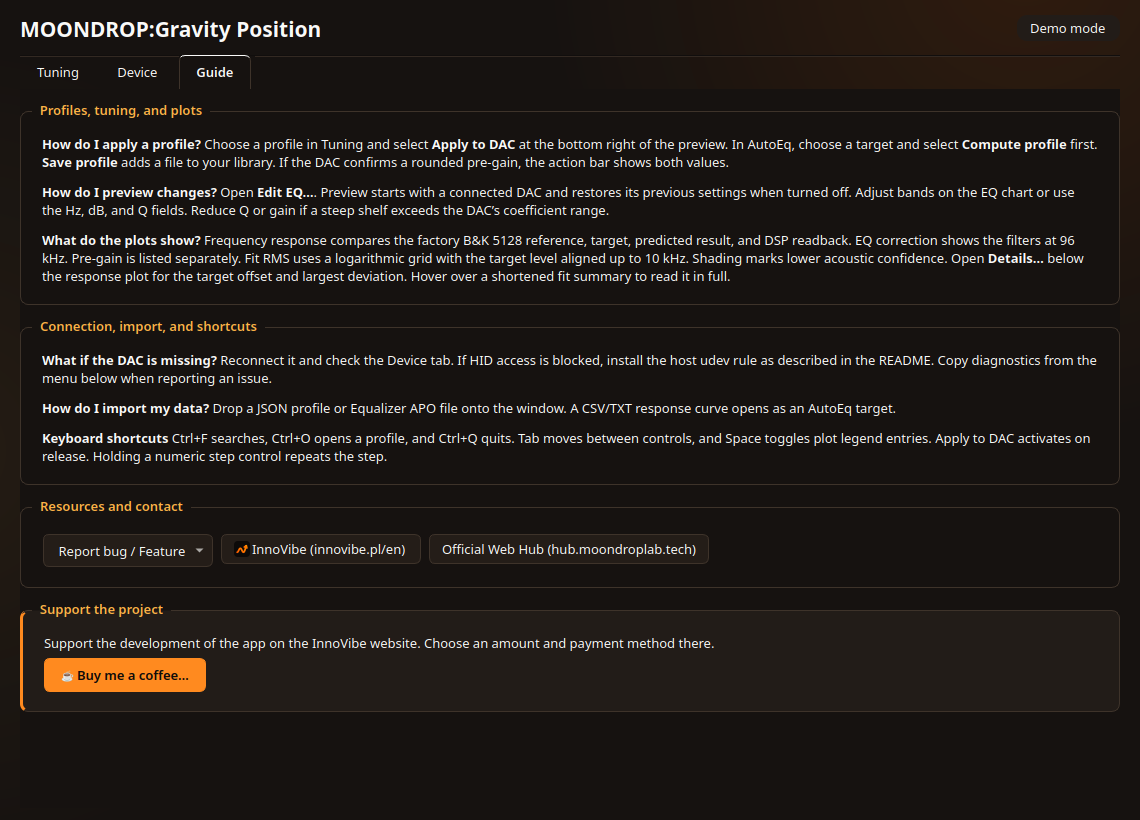
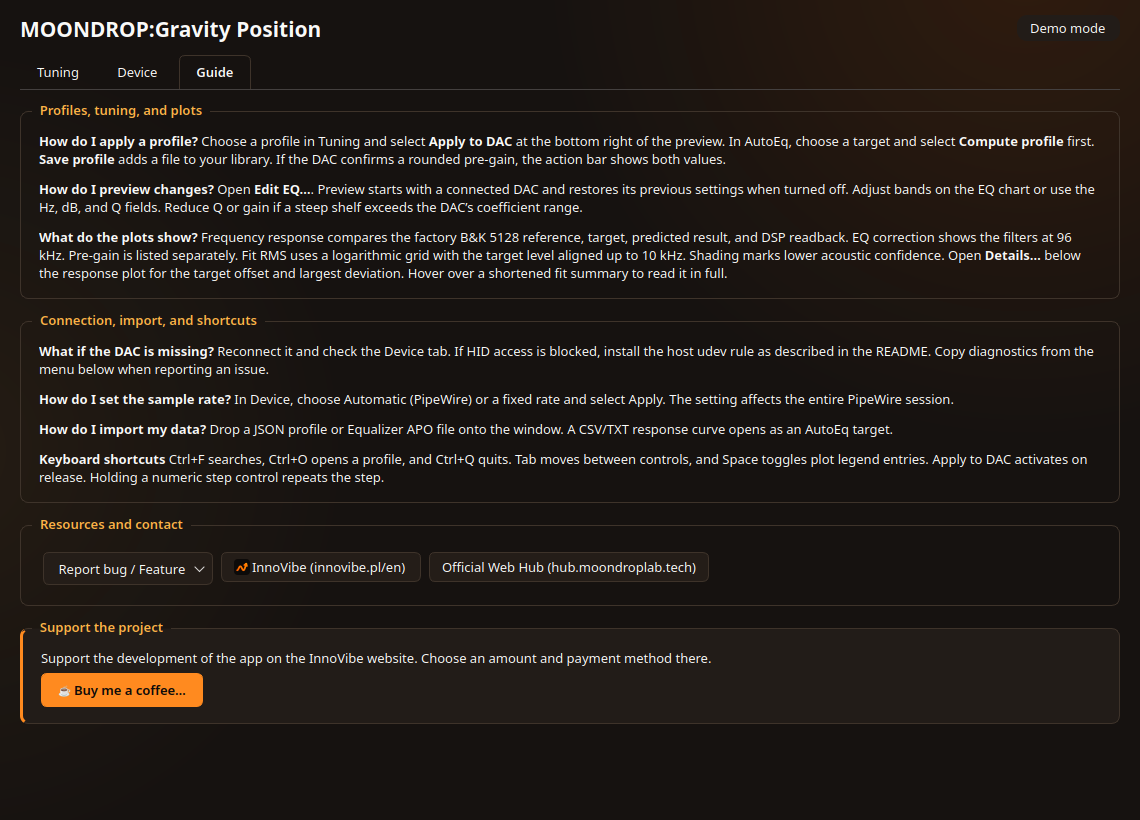
Fit translated PipeWire sample rate labels

Changed region(s): [[0.0307, 0.1524, 0.9825, 0.7012], [0.0307, 0.7317, 0.6447, 0.8841]]

diff --git a/tests/test_gui_smoke.py b/tests/test_gui_smoke.py
@@ -13,7 +13,7 @@ import pytest
 from PySide6.QtCore import QPoint, QRect, QStandardPaths, Qt
 from PySide6.QtGui import QFont
 from PySide6.QtTest import QTest
-from PySide6.QtWidgets import QApplication, QMessageBox
+from PySide6.QtWidgets import QApplication, QMessageBox, QStyle, QStyleOptionComboBox
 
 import position_gui as gui
 
@@ -313,7 +313,7 @@ def test_builtin_profiles_keep_plot_geometry(tmp_path: Path, font: str | None) -
 
 def test_device_form_uses_shared_alignment_and_responsive_actions(tmp_path: Path) -> None:
     app = QApplication.instance() or QApplication([])
-    (tmp_path / "settings.json").write_text('{"language":"pl","theme":"dark"}')
+    (tmp_path / "settings.json").write_text('{"language":"en","theme":"dark"}')
     window = gui.ProfilesWindow(demo=True, library_directory=tmp_path / "profiles")
     try:
         window.setMinimumWidth(608)
@@ -333,6 +333,22 @@ def test_device_form_uses_shared_alignment_and_responsive_actions(tmp_path: Path
         assert window.backup_button.x() == window.defaults_button.x()
         assert window.backup_button.width() == window.defaults_button.width()
         assert window.backup_button.geometry().bottom() < window.defaults_button.y()
+
+        combo = window.sample_rate_combo
+        for lang, automatic in (("pl", "Automatyczna (PipeWire)"), ("en", "Automatic (PipeWire)")):
+            window.language_combo.setCurrentIndex(window.language_combo.findData(lang))
+            QTest.qWait(50)
+            assert combo.currentText() == automatic
+            option = QStyleOptionComboBox()
+            combo.initStyleOption(option)
+            text_rect = combo.style().subControlRect(
+                QStyle.ComplexControl.CC_ComboBox, option, QStyle.SubControl.SC_ComboBoxEditField, combo
+            )
+            assert all(
+                text_rect.width() >= combo.fontMetrics().horizontalAdvance(combo.itemText(index))
+                for index in range(combo.count())
+            )
+            assert window.refresh_rate_button.geometry().right() <= window.playback_box.contentsRect().right()
     finally:
         window.quit_from_tray()
         app.processEvents()

diff --git a/skrypty/position_gui.py b/skrypty/position_gui.py
@@ -3189,6 +3189,8 @@ class ProfilesWindow(QWidget):
 
         rate_row = QHBoxLayout()
         self.sample_rate_combo = QComboBox()
+        self.sample_rate_combo.setSizeAdjustPolicy(QComboBox.SizeAdjustPolicy.AdjustToContents)
+        self.sample_rate_combo.setSizePolicy(QSizePolicy.Policy.Minimum, QSizePolicy.Policy.Fixed)
         self.sample_rate_combo.setAccessibleName(tr("device.force_rate"))
         self.sample_rate_combo.addItem(tr("device.rate_auto"), 0)
         for rate in UAC2_SAMPLE_RATES:
@@ -3197,10 +3199,10 @@ class ProfilesWindow(QWidget):
         self.apply_rate_button.setAccessibleName(tr("device.apply"))
         self.refresh_rate_button = QPushButton(tr("device.refresh"))
         self.refresh_rate_button.setAccessibleName(tr("device.refresh"))
-        rate_row.addWidget(self.sample_rate_combo)
+        rate_row.addWidget(self.sample_rate_combo, 1)
         rate_row.addWidget(self.apply_rate_button)
         rate_row.addWidget(self.refresh_rate_button)
-        rate_row.addStretch()
+        rate_row.addStretch(2)
         self.playback_force_label.setBuddy(self.sample_rate_combo)
         playback_form.addRow(self.playback_force_label, rate_row)
 

diff --git a/README.pl.md b/README.pl.md
@@ -122,7 +122,7 @@ Kliknij **Edytuj EQ…**, aby otworzyć osobny edytor. Przy podłączonym DAC-u 
 ### 4. Stan urządzenia, wzmocnienie i jakość PipeWire UAC2
 Sprawdź od razu aktywny profil na DAC-u, slot (`0` fabryczny / `7` własny), pre-gain oraz wzmocnienie wyjścia i mikrofonu.
 
-- Podglądaj aktywny strumień ALSA i w razie potrzeby wymuszaj **Próbkowanie PipeWire** (`44,1–384 kHz` dla całej sesji); w sekcji **Szczegóły USB i PipeWire** znajdziesz surowy format USB i wersję firmware.
+- Podglądaj aktywny strumień ALSA i ustaw **Próbkowanie PipeWire** dla całej sesji. Wybierz **Automatyczna (PipeWire)** lub stałą częstotliwość (`44,1–384 kHz`) i kliknij **Zastosuj**. W sekcji **Szczegóły USB i PipeWire** znajdziesz surowy format USB i wersję firmware.
 - Wykonaj kopię zapasową slotu Custom do pliku JSON, przywróć **Ustawienia fabryczne…** oraz zmieniaj motyw (**InnoVibe Ciemny / Jasny**) i język (**PL / EN**).
 
 ![Ustawienia urządzenia](docs/screenshots/03-device-settings.png)

diff --git a/README.md b/README.md
@@ -122,7 +122,7 @@ Click **Edit EQ…** to open the dedicated editor. With a DAC connected, **Live 
 ### 4. Device Status, Gains & PipeWire UAC2 Quality
 Check your active DAC profile, slot (`0` Factory / `7` Custom), pre-gain, and output/microphone gain at a glance.
 
-- View the active ALSA playback stream and optionally force the **PipeWire sample rate** (`44.1–384 kHz`, session-wide); expand **USB and PipeWire details** for raw USB format and firmware info.
+- View the active ALSA playback stream and set the session-wide **PipeWire sample rate**. Choose **Automatic (PipeWire)** or a fixed rate (`44.1–384 kHz`) and select **Apply**. Expand **USB and PipeWire details** for raw USB format and firmware info.
 - Back up your DAC's Custom slot to JSON, run a **Factory reset…**, and switch between **InnoVibe Dark / Light** themes and **EN / PL** languages.
 
 ![Device Settings](docs/screenshots/03-device-settings.png)
